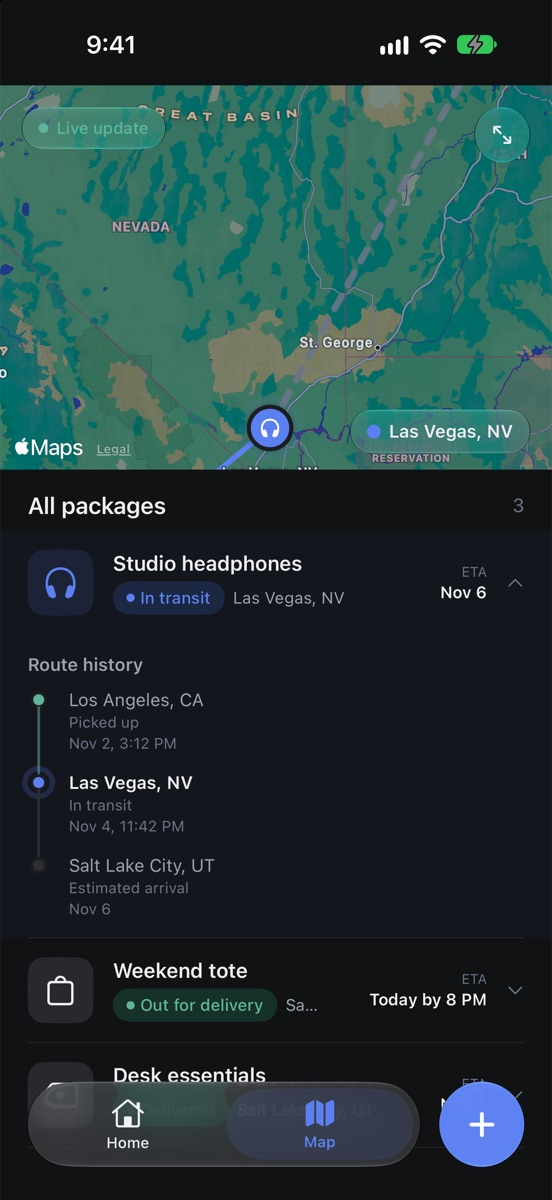
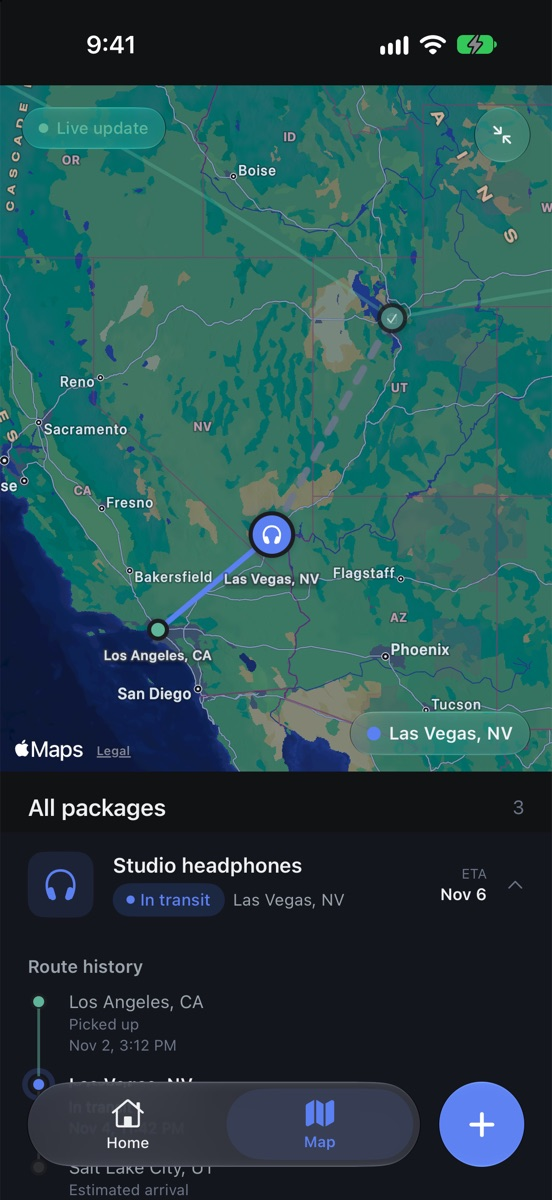
feat: map screenshot shows the full tracked route

diff --git a/index.html b/index.html
@@ -33,7 +33,7 @@
     <ul class="carriers" aria-label="Supported carriers"><li>USPS</li><li>UPS</li><li>FedEx</li><li>DHL</li><li>+1,000 more</li></ul>
   </div>
   <div class="l-hero-phones">
-    <figure class="phone back"><img src="/assets/screens/map.jpg" alt="BoxBuddy map showing a package's route across Nevada" width="1200" height="2609"></figure>
+    <figure class="phone back"><img src="/assets/screens/map.jpg?v=2" alt="BoxBuddy map showing a package's route across Nevada" width="1200" height="2609"></figure>
     <figure class="phone front"><img src="/assets/screens/home.jpg" alt="BoxBuddy home screen listing active packages with status and arrival dates" width="1200" height="2609"></figure>
   </div>
 </div></section>
@@ -60,7 +60,7 @@
   </div>
 
   <div class="row">
-    <figure class="phone"><img src="/assets/screens/map.jpg" alt="Map tab with live package location and route history" loading="lazy" width="1200" height="2609"></figure>
+    <figure class="phone"><img src="/assets/screens/map.jpg?v=2" alt="Map tab with live package location and route history" loading="lazy" width="1200" height="2609"></figure>
     <div class="copy">
       <span class="eyebrow">Map</span>
       <h2>Watch it move.</h2>
